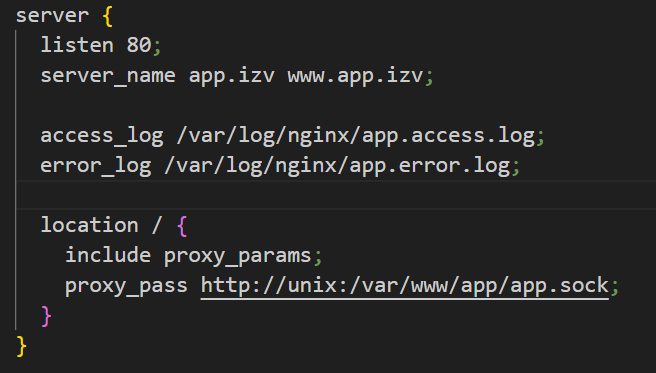
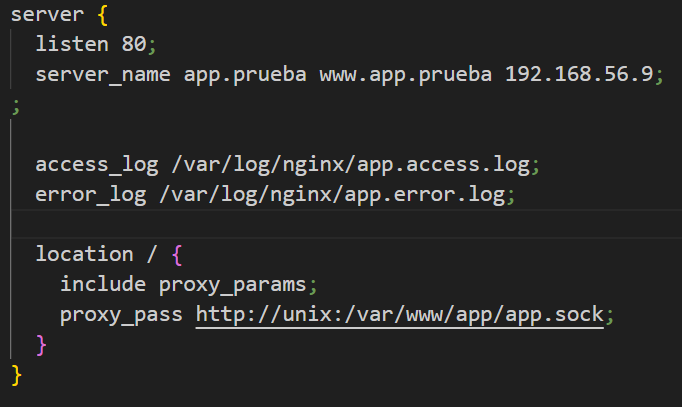
App desplegada

Changed region(s): [[0.0, 0.2654, 0.9451, 0.9437], [0.0, 0.0, 0.9756, 0.2359]]

diff --git a/README.md b/README.md
@@ -351,6 +351,8 @@ Avisamos a systemd que existe un nuevo servicio lo arrancamos y vemos si todo fu
 Lo copiamos en sites-aviables, realizamos el enlace simbolico a sites-enables. reiniciamos nginx comprobando que no tiene errores. Modificamos el archivo host para "falsear" la resolucion de nombre y accedemos a la web. Comprobando que esta funciona correctamente.
 
 
+![final](appWeb/python/img/final.png)
+
 
 
 
